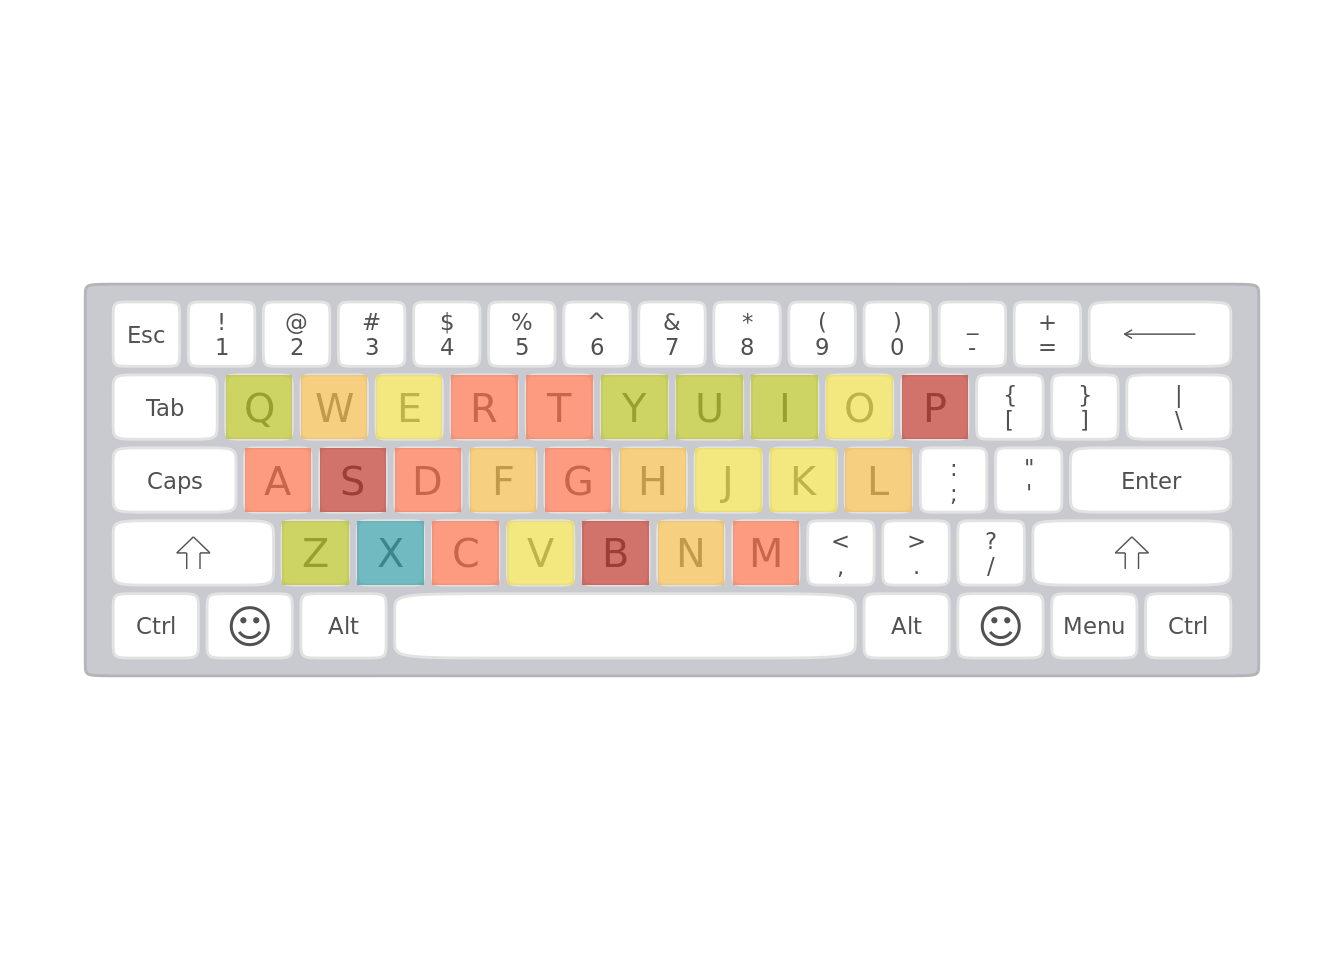
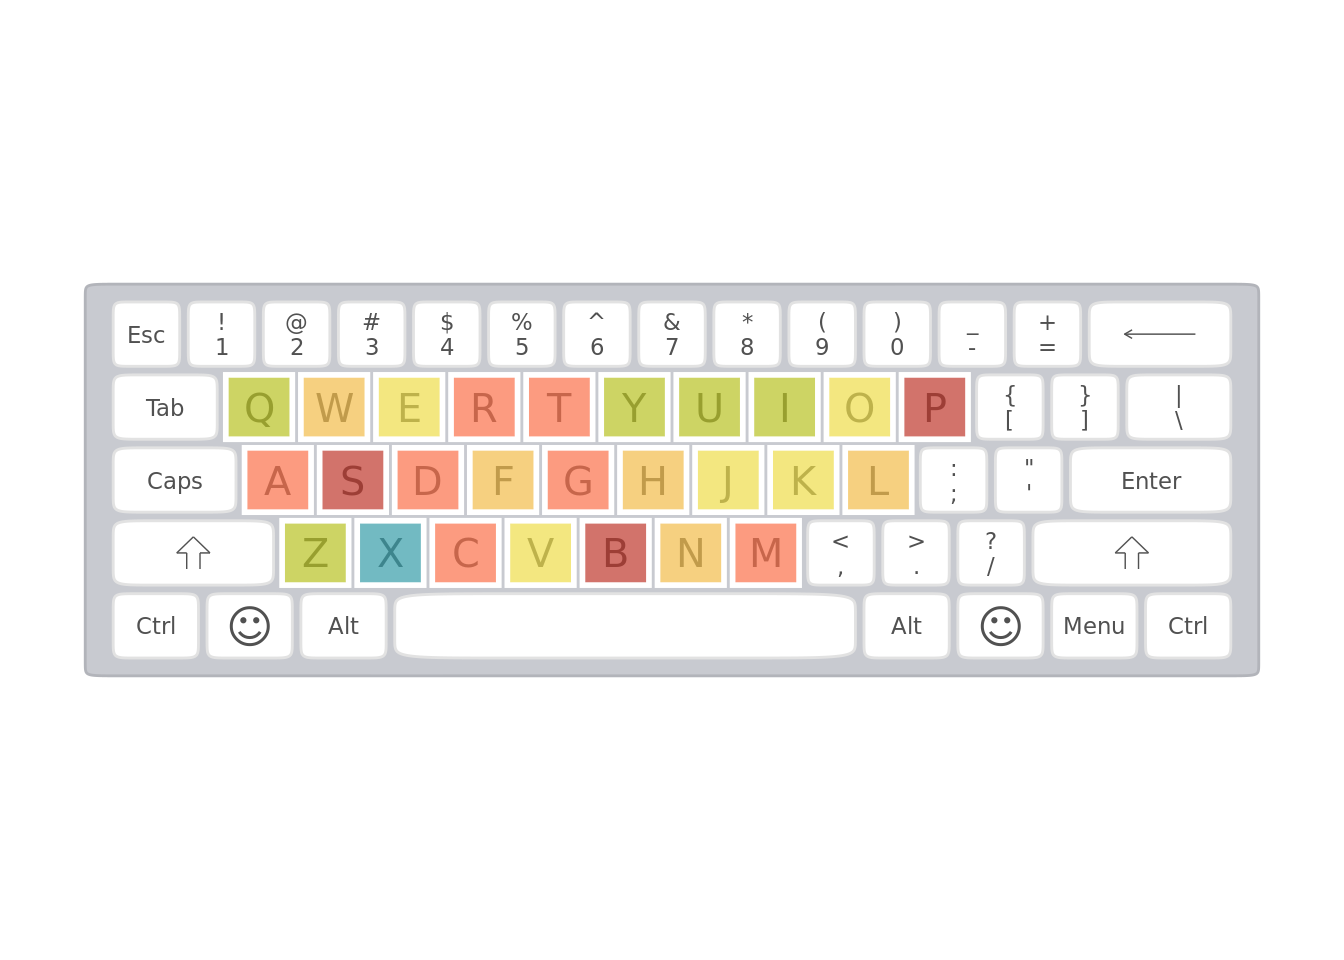
HW6 Version 2

Changed region(s): [[0.1562, 0.375, 0.7188, 0.625], [0.7188, 0.4062, 0.75, 0.4375]]

diff --git a/homework_6.html b/homework_6.html
@@ -310,15 +310,15 @@ dbl (4): row, number, width, height
 <span id="cb19-9"><a href="#cb19-9" aria-hidden="true" tabindex="-1"></a>     <span class="at">keys =</span> key_order_counts<span class="sc">$</span>key,</span>
 <span id="cb19-10"><a href="#cb19-10" aria-hidden="true" tabindex="-1"></a>     <span class="at">fill =</span> key_order_counts<span class="sc">$</span>color,</span>
 <span id="cb19-11"><a href="#cb19-11" aria-hidden="true" tabindex="-1"></a>     <span class="at">alpha =</span> <span class="fl">0.7</span>,</span>
-<span id="cb19-12"><a href="#cb19-12" aria-hidden="true" tabindex="-1"></a>     <span class="at">colour =</span> <span class="cn">NA</span>)</span></code><button title="Copy to Clipboard" class="code-copy-button"><i class="bi"></i></button></pre></div>
+<span id="cb19-12"><a href="#cb19-12" aria-hidden="true" tabindex="-1"></a>     <span class="at">colour =</span> <span class="st">"white"</span>)</span></code><button title="Copy to Clipboard" class="code-copy-button"><i class="bi"></i></button></pre></div>
 <div class="cell-output-display">
 <p><img src="homework_6_files/figure-html/data-renewed-1.png" class="img-fluid" width="672"></p>
 </div>
 </div>
 </section>
 </section>
-<section id="repeating-task-3-but-with-all-letters" class="level2">
-<h2 class="anchored" data-anchor-id="repeating-task-3-but-with-all-letters">Repeating Task 3, but with all letters</h2>
+<section id="task-4-repeating-task-3-but-with-all-letters" class="level2">
+<h2 class="anchored" data-anchor-id="task-4-repeating-task-3-but-with-all-letters">Task 4: Repeating Task 3, but with all letters</h2>
 <div class="cell">
 <div class="sourceCode cell-code" id="cb20"><pre class="sourceCode r code-with-copy"><code class="sourceCode r"><span id="cb20-1"><a href="#cb20-1" aria-hidden="true" tabindex="-1"></a>All <span class="sc">|&gt;</span></span>
 <span id="cb20-2"><a href="#cb20-2" aria-hidden="true" tabindex="-1"></a>  <span class="fu">summarize</span>(</span>
@@ -378,36 +378,6 @@ dbl (4): row, number, width, height
 <p><img src="homework_6_files/figure-html/data-renewed-2-1.png" class="img-fluid" width="672"></p>
 </div>
 </div>
-<p>--- title: “Wordle on keyboard” subtitle: “Coding out loud, Ep 4” author: “Shawn Ma” output: github_document editor_options: chunk_output_type: console ---</p>
-<p>{r} library(tidyverse) devtools::install_github(“sharlagelfand/ggkeyboard”, ref = “main”) library(ggkeyboard) # https://github.com/sharlagelfand/ggkeyboard</p>
-<p><strong>Inspiration</strong></p>
-<p><a href="https://twitter.com/monachalabi/status/772102591694209024">English keyboard heatmap</a> by <a href="https://twitter.com/MonaChalabi">Mona Chalabi</a></p>
-<p><strong>Task 1: Find the first letter of Wordle words</strong></p>
-<p>From <a href="https://github.com/tabatkins/wordle-list" class="uri">https://github.com/tabatkins/wordle-list</a>.</p>
-<p>{r} #| label: read-data wordle &lt;- read_csv(“https://raw.githubusercontent.com/tabatkins/wordle-list/main/words”, col_names = “word”)</p>
-<p>{r} #| label: get-first-letter first &lt;- wordle |&gt; mutate(first_letter = str_sub(word, start = 1, end = 1)) wordle_counts &lt;- first |&gt; count(first_letter, sort = TRUE)</p>
-<p>{r} #| label: get-total-letters first &lt;- wordle |&gt; mutate(letter = str_sub(word, start = 1, end = 1)) |&gt; count(letter, sort = TRUE) second &lt;- wordle |&gt; mutate(letter = str_sub(word, start = 2, end = 2)) |&gt; count(letter, sort = TRUE) third &lt;- wordle |&gt; mutate(letter = str_sub(word, start = 3, end = 3)) |&gt; count(letter, sort = TRUE) fourth &lt;- wordle |&gt; mutate(letter = str_sub(word, start = 4, end = 4)) |&gt; count(letter, sort = TRUE) fifth &lt;- wordle |&gt; mutate(letter = str_sub(word, start = 5, end = 5)) |&gt; count(letter, sort = TRUE) joined &lt;- left_join(first, second, by = “letter”) |&gt; left_join(third, by = “letter”) |&gt; left_join(fourth, by = “letter”) |&gt; left_join(fifth, by = “letter”) numbers &lt;- joined |&gt; select(-letter) letters &lt;- joined |&gt; select(letter) All &lt;- joined |&gt; mutate(sum = rowSums(joined[2:6]))</p>
-<p><strong>Task 2: Draw a keyboard</strong></p>
-<p>{r} #| label: default-keyboard ggkeyboard(tkl, layout = “iso”)</p>
-<p><strong>Task 3: Color keyboard keys based on frequency of first letter</strong></p>
-<p>{r} #| label: color-scale wordle_counts |&gt; summarize( min = min(n), max = max(n), mean = mean(n), sd = sd(n), q20 = quantile(n, 0.20), q40 = quantile(n, 0.40), q60 = quantile(n, 0.60), q80 = quantile(n, 0.80))</p>
-<p>{r} #| label: graph-dis ggplot(wordle_counts, aes(x = n)) + geom_histogram(binwidth = 100) ggplot(wordle_counts, aes(x = first_letter, y = n)) + geom_col() + geom_hline(yintercept = 100)</p>
-<p><strong>Color options</strong></p>
-<p>Dark Blue - “#2D6698” - 0</p>
-<p>Light Blue - “#359CA8” - 100</p>
-<p>Green - “#B8C222” - 217</p>
-<p>Yellow - “#EEDD49” - 429</p>
-<p>Orange - “#F2BC4A” - 646</p>
-<p>Dark Orange - “#FB704A” - 882</p>
-<p>Red - “BE372C” - 1000</p>
-<p>{r} #| label: muatation-of-dataset wordle_counts &lt;- wordle_counts |&gt; mutate( color = case_when( (n == 0) ~ “#2D6698”, (n &gt; 0 &amp; n &lt;= 100) ~ “#359CA8”, (n &gt; 100 &amp; n &lt;= 217) ~ “#B8C222”, (n &gt; 217 &amp; n &lt;= 429) ~ “#EEDD49”, (n &gt; 429 &amp; n &lt;= 646) ~ “#F2BC4A”, (n &gt; 646 &amp; n &lt;= 1000) ~ “#FB704A”, (n &gt;= 1000) ~ “#BE372C”), first_letter = str_to_upper(first_letter)) |&gt; arrange(first_letter)</p>
-<p>{r} #| label: color-coding-keyboard ggkeyboard(sixty_percent, palette = keyboard_palette(“magic”)) |&gt; highlight_keys( keys = wordle_counts$first_letter, fill = wordle_counts$color, alpha = 0.7, colour = NA)</p>
-<p>{r} #| label: data-renewed key &lt;- read_csv(“https://raw.githubusercontent.com/sharlagelfand/ggkeyboard/061f0d9084d76d576200e81439311983e1d50d93/data-raw/sixty_percent.csv”) key_order_counts &lt;- key |&gt; filter(key %in% LETTERS) |&gt; mutate(key = key_label) |&gt; select(key) |&gt; left_join(wordle_counts, by = c(“key” = “first_letter”)) ggkeyboard(sixty_percent, palette = keyboard_palette(“magic”)) |&gt; highlight_keys( keys = key_order_counts$key, fill = key_order_counts$color, alpha = 0.7, colour = NA)</p>
-<p><strong>Repeating Task 3, but with all letters</strong></p>
-<p>{r} #| label: color-scale-2 All |&gt; summarize( min = min(sum), max = max(sum), mean = mean(sum), sd = sd(sum), q20 = quantile(sum, 0.20), q40 = quantile(sum, 0.40), q60 = quantile(sum, 0.60), q80 = quantile(sum, 0.80))</p>
-<p>{r} #| label: muatation-of-dataset-2 All &lt;- All |&gt; mutate( color = case_when( (sum == 0) ~ “#2D6698”, (sum &gt; 0 &amp; sum &lt;= 1127) ~ “#359CA8”, (sum &gt; 1127 &amp; sum &lt;= 1993) ~ “#B8C222”, (sum &gt; 1993 &amp; sum &lt;= 2735) ~ “#EEDD49”, (sum &gt; 2735 &amp; sum &lt;= 4381) ~ “#F2BC4A”, (sum &gt; 4381 &amp; sum &lt;= 6000) ~ “#FB704A”, (sum &gt;= 6000) ~ “#BE372C”), letter = str_to_upper(letter))</p>
-<p>{r} #| label: data-renewed-2 key &lt;- read_csv(“https://raw.githubusercontent.com/sharlagelfand/ggkeyboard/061f0d9084d76d576200e81439311983e1d50d93/data-raw/sixty_percent.csv”) key_order_counts_2 &lt;- key |&gt; filter(key %in% LETTERS) |&gt; mutate(key = key_label) |&gt; select(key) |&gt; left_join(All, by = c(“key” = “letter”)) ggkeyboard(sixty_percent, palette = keyboard_palette(“magic”)) |&gt; highlight_keys( keys = key_order_counts_2$key, fill = key_order_counts_2$color, alpha = 0.7, colour = NA)</p>
-<p>&nbsp;</p>
 </section>
 
 </main>
